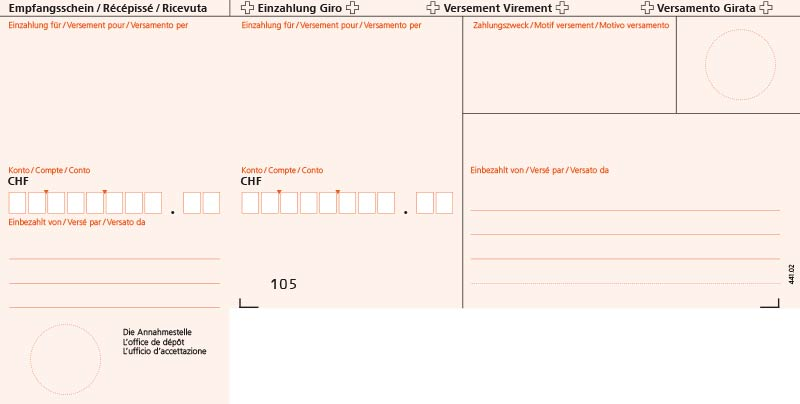
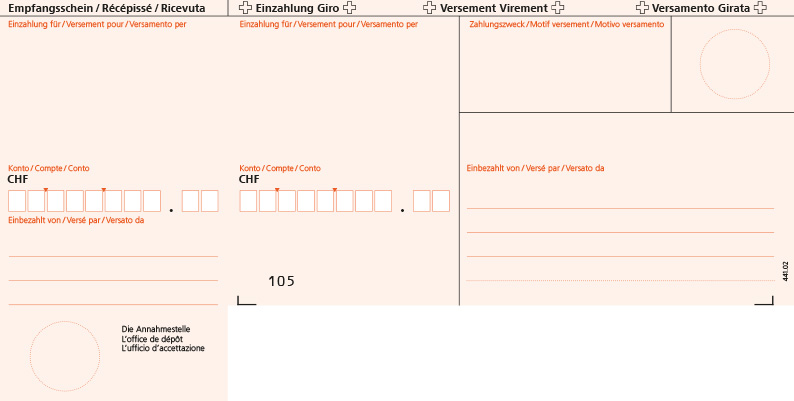
css adaptation form envelop

diff --git a/resources/views/shop/templates/facture.php b/resources/views/shop/templates/facture.php
@@ -14,14 +14,14 @@
             display: block;
         }
         h3{
-            font-size: 14px;
+            font-size: 13px;
             display: block;
             font-weight: normal;
             color: #000;
-            line-height: 25px;
+            line-height: 20px;
             margin: 0;
             padding: 0;
-            padding-bottom: 10px;
+            padding-bottom: 5px;
         }
         #content{
             margin: 8mm 10mm;
@@ -46,7 +46,7 @@
             border-collapse: collapse;
         }
         #invoice-table{
-            margin-top: 20px;
+            margin-top: 10px;
         }
         #invoice-table tr,
         {
@@ -61,7 +61,8 @@
         }
         #invoice-table td
         {
-            padding: 6px 2px 6px 2px;
+            font-size: 11px;
+            padding: 5px 2px 5px 2px;
             border-bottom: 1px solid #c3c3c3;
             color: #4d4d4d;
         }
@@ -76,27 +77,35 @@
             list-style: none;
         }
 
+        #user{
+            margin-top: 15px;
+        }
+
         #user li,#tva li{
             font-size: 12px;
         }
 
-        #facdroit li, .facdroit li{
+        #facdroit li{
             font-size: 11px;
         }
 
-        .facdroit{
-            padding: 40px 20px 0px 20px;
+        .versement li{
+            font-size: 12px;
+        }
+
+        .versement{
+            padding: 45px 20px 0px 20px;
             list-style: none;
             margin: 0;
         }
 
         #tva li,.infos td{
             font-size: 10px;
-            line-height: 14px;
+            line-height: 13px;
         }
 
         .misc-infos{
-            padding: 10px;
+            padding: 3px 10px;
             background: #f0f0f0;
             margin-top: 15px;
         }
@@ -147,6 +156,7 @@
         .communications{
             display: block;
             margin: 5px 0;
+            font-size: 12px;
         }
 
         .warning{
@@ -158,12 +168,14 @@
         }
 
         .message{
-            margin: 3px 0;
+            margin: 0;
             display: block;
+            line-height: 14px;
+            font-size: 11px;
         }
 
         .signature{
-            margin-top: 20px;
+            margin-top: 15px;
         }
 
         /*
@@ -247,9 +259,9 @@
             <tr align="top">
                 <td align="top" width="60%" valign="top">
                     <?php
-                    if(!empty($facdroit)){
+                    if(!empty($expediteur)){
                         echo '<ul id="facdroit">';
-                            foreach($facdroit as $line){
+                            foreach($expediteur as $line){
                                 echo '<li>'.$line.'</li>';
                             }
                         echo '</ul>';
@@ -268,7 +280,7 @@
                             echo '<li>'.$adresse->civilite_title.' '.$order->user->name.'</li>';
                             echo '<li>'.$adresse->adresse.'</li>';
                             echo (!empty($adresse->complement) ? '<li>'.$adresse->complement.'</li>' : '');
-                            echo (!empty($adresse->cp) ? '<li>'.$adresse->cp.'</li>' : '');
+                            echo (!empty($adresse->cp) ? '<li>'.$adresse->cp_trim.'</li>' : '');
                             echo '<li>'.$adresse->npa.' '.$adresse->ville.'</li>';
                             echo '</ul>';
                         }
@@ -276,7 +288,7 @@
                     ?>
                 </td>
             </tr>
-            <tr><td colspan="2" height="15">&nbsp;</td></tr>
+            <tr><td colspan="2" height="20">&nbsp;</td></tr>
         </table>
 
         <h1 class="title blue">Facture</h1>
@@ -284,11 +296,15 @@
         <table id="content-table">
             <tr>
                 <td width="59%" align="top" valign="top"  class="misc-infos">
-                    <ul id="tva">
-                        <li>N° CHE-115.251.043TVA</li>
-                        <li>Taux 2.5% inclus pour les livres</li>
-                        <li>Taux 8% pour les autres produits</li>
-                    </ul>
+                    <?php
+                    if(!empty($tva)){
+                        echo '<ul id="tva">';
+                        foreach($tva as $line){
+                            echo '<li>'.$line.'</li>';
+                        }
+                        echo '</ul>';
+                    }
+                    ?>
                 </td>
                 <td width="1%" align="top" valign="top"></td>
                 <td width="40%" align="top" valign="top" class="misc-infos">
@@ -341,7 +357,7 @@
         </table>
 
         <table id="content-table">
-            <tr><td colspan="2" height="15">&nbsp;</td></tr>
+            <tr><td colspan="2" height="10">&nbsp;</td></tr>
             <tr>
                 <!-- Messages for customer -->
                 <td width="62%" align="top" valign="top">
@@ -362,7 +378,7 @@
                             echo '</div>';
                         }
 
-                    echo '<p>Neuchâtel, le '.$date.'</p>';
+                    echo '<p class="message">Neuchâtel, le '.$date.'</p>';
 
                     ?>
                 </td>
@@ -392,6 +408,8 @@
         if($products->count() > 7){
             echo '<p style="page-break-after: always;"></p>';
         }
+
+        list($francs,$centimes) = $order->price_total_explode;
     ?>
 
     <table id="bv-table">
@@ -400,41 +418,51 @@
                 <table id="recu" valign="top">
                     <tr>
                         <td align="top" valign="center" height="43mm">
-                            <ul class="facdroit">
-                                <li>Université de Neuchâtel</li>
-                                <li>Séminaire sur le droit du bail</li>
-                                <li>2000 Neuchâtel</li>
-                            </ul>
+                            <?php
+                                if(!empty($versement)){
+                                    echo '<ul class="versement">';
+                                    foreach($versement as $line){
+                                        echo '<li>'.$line.'</li>';
+                                    }
+                                    echo '</ul>';
+                                }
+                            ?>
                         </td>
                     </tr>
-                    <tr><td align="top" valign="center" height="7.6mm" class="compte">20-4130-2</td></tr>
-                    <tr><td align="top" valign="center" height="6mm" class="price"><span class="francs">123</span>00</td></tr>
+                    <tr><td align="top" valign="center" height="7.6mm" class="compte"><?php echo $compte; ?></td></tr>
+                    <tr><td align="top" valign="center" height="6mm" class="price"><span class="francs"><?php echo $francs; ?></span><?php echo $centimes; ?></td></tr>
                 </table>
             </td>
             <td width="62mm" align="top" valign="top">
                 <table id="compte" valign="top">
                     <tr>
                         <td align="top" valign="center" height="43mm">
-                            <ul class="facdroit">
-                                <li>Université de Neuchâtel</li>
-                                <li>Séminaire sur le droit du bail</li>
-                                <li>2000 Neuchâtel</li>
-                            </ul>
+                            <?php
+                                if(!empty($versement)){
+                                    echo '<ul class="versement">';
+                                    foreach($versement as $line){
+                                        echo '<li>'.$line.'</li>';
+                                    }
+                                    echo '</ul>';
+                                }
+                            ?>
                         </td>
                     </tr>
-                    <tr><td align="top" valign="top" height="7.6mm" class="compte">20-4130-2</td></tr>
-                    <tr><td align="top" valign="top" height="6mm" class="price"><span class="francs">123</span>00</td></tr>
+                    <tr><td align="top" valign="top" height="7.6mm" class="compte"><?php echo $compte; ?></td></tr>
+                    <tr><td align="top" valign="top" height="6mm" class="price"><span class="francs"><?php echo $francs; ?></span><?php echo $centimes; ?></td></tr>
                 </table>
             </td>
             <td width="88mm" align="top" valign="top">
                 <table id="versement" valign="top">
                     <tr>
                         <td align="top" valign="top" width="64%" height="20mm">
-                            <ul class="facdroit">
-                                <li>U. 01852</li>
-                                <li>Vente ouvrages</li>
-                                <li>Facture N° 2013-00000242</li>
-                            </ul>
+                            <?php
+                                echo '<ul class="versement">';
+                                    echo '<li>'.$motif['centre'].'</li>';
+                                    echo '<li>'.$motif['texte'].'</li>';
+                                    echo '<li>Facture N° '.$order->order_no.'</li>';
+                                echo '</ul>';
+                            ?>
                         </td>
                         <td align="top" valign="top" width="32%" height="20mm"></td>
                     </tr>

diff --git a/tests/cart/CartWorkerTest.php b/tests/cart/CartWorkerTest.php
@@ -41,6 +41,7 @@ class CartWorkerTest extends TestCase {
     {
         $this->coupon->delete($this->onecoupon->id);
         $this->coupon->delete($this->twocoupon->id);
+        $this->coupon->delete($this->threecoupon->id);
 
         $product = new App\Droit\Shop\Product\Entities\Product();
 
@@ -77,7 +78,7 @@ class CartWorkerTest extends TestCase {
         $this->worker->getTotalWeight();
 
         $this->worker->setCoupon($this->threecoupon->title)->applyCoupon();
-        $this->worker->calculPriceWithCoupon();
+        $this->worker->getTotalWeight()->setShipping();
 
         $this->assertEquals(0, $this->worker->orderShipping->price);
     }
@@ -202,28 +203,14 @@ class CartWorkerTest extends TestCase {
     /**
      * @return void
      */
-    public function testApplyCoupon()
-    {
-        \Cart::instance('newInstance');
-
-        \Cart::add($this->oneproduct->id, $this->oneproduct->title, 1, $this->oneproduct->price , array('weight' => $this->oneproduct->weight));
-        \Cart::add(1, 'un titre', 1, '2', array('weight' => '300'));
-
-        $this->worker->setCoupon($this->twocoupon->title)->applyCoupon();
-
-        $this->assertEquals(10, \Cart::total());
-    }
-
-    /**
-     * @return void
-     */
     public function testCalculPriceWithCoupon()
     {
         \Cart::instance('newInstance');
 
         \Cart::add($this->oneproduct->id, $this->oneproduct->title, 1, $this->oneproduct->price , array('weight' => $this->oneproduct->weight));
 
-        $price = $this->worker->setCoupon($this->twocoupon->title)->calculPriceWithCoupon();
+        $this->worker->setCoupon($this->twocoupon->title)->applyCoupon();
+        $price = $this->worker->calculPriceWithCoupon($this->oneproduct->id);
 
         $this->assertEquals(8.00, $price);
     }

diff --git a/app/Droit/Generate/Pdf/PdfGenerator.php b/app/Droit/Generate/Pdf/PdfGenerator.php
@@ -16,7 +16,7 @@ class PdfGenerator
         setlocale(LC_ALL, 'fr_FR.UTF-8');
         $date  = Carbon::now()->formatLocalized('%d %B %Y');
 
-        $order = $this->order->find(3);
+        $order = $this->order->find(4);
         $order->load('products','user','shipping','payement');
         $order->user->load('adresses');
 
@@ -29,7 +29,7 @@ class PdfGenerator
         echo '</pre>';exit;*/
 
         $data = [
-            'facdroit' => [
+            'expediteur' => [
                 'nom'     => 'Secr&eacute;tariat  - Formation',
                 'adresse' => 'Avenue du 1er-Mars 26',
                 'ville'   => 'CH-2000 Neuch&acirc;tel'
@@ -40,6 +40,21 @@ class PdfGenerator
                 'remarque'  => 'Une remarque en plus pour cette facture.',
                 'signature' => 'Avec nos remerciements, nous vous adressons nos salutations les meilleures',
             ],
+            'versement' => [
+                'nom'     => 'Université de Neuchâtel',
+                'adresse' => 'Séminaire sur le droit du bail',
+                'ville'   => '2000 Neuchâtel'
+            ],
+            'motif' => [
+                'centre' => 'U. 01852',
+                'texte'  => 'Vente ouvrages',
+            ],
+            'tva' => [
+                'numero'      => 'CHE-115.251.043TVA',
+                'taux_réduit' => 'Taux 2.5% inclus pour les livres',
+                'taux_normal' => 'Taux 8% pour les autres produits'
+            ],
+            'compte' => '20-4130-2',
             'order'     => $order,
             'products'  => $products,
             'msgTypes'  => $msgTypes,

diff --git a/app/Droit/Shop/Order/Entities/Order.php b/app/Droit/Shop/Order/Entities/Order.php
@@ -21,6 +21,16 @@ class Order extends Model{
         return $money->format($price);
     }
 
+    public function getPriceTotalExplodeAttribute()
+    {
+        $money = new \App\Droit\Shop\Product\Entities\Money;
+        $total = $this->amount + $this->shipping->price;
+        $price = $total / 100;
+        $price = $money->format($price);
+
+        return explode('.',$price);
+    }
+
     public function getTotalWithShippingAttribute()
     {
         $this->load('shipping');

diff --git a/app/Droit/Adresse/Entities/Adresses.php b/app/Droit/Adresse/Entities/Adresses.php
@@ -22,6 +22,16 @@ class Adresses extends Model {
 
         return  $this->civilite->title;
     }
+
+    public function getCpTrimAttribute()
+    {
+        $wordlist = array("CP", "case", "postale","Case","Postale","cp","Cp","Postfach","postfach", "C. P." , "PF" , "PO Box");
+
+        $cp = str_replace($wordlist, "",  $this->cp);
+        $cp = trim($cp);
+
+        return  'CP '.$cp;
+    }
  	
 	public function user()
     {

diff --git a/app/Droit/Shop/Cart/Worker/CartWorker.php b/app/Droit/Shop/Cart/Worker/CartWorker.php
@@ -158,6 +158,7 @@ use App\Droit\Shop\Coupon\Repo\CouponInterface;
          foreach($cart as $item)
          {
              $product = $this->product->find($item->id);
+
              if($product){
                  \Cart::update($item->rowid, array('price' => $product->price_cents));
              }
